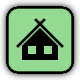
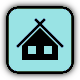
Improved map and filter iconography

diff --git a/src/components/HuntingMap/HuntingMapFilter.tsx b/src/components/HuntingMap/HuntingMapFilter.tsx
@@ -94,7 +94,11 @@ export const HuntingMapFilter = (props: HuntingMapFilterProps) => {
    * @param options Map of option types and names to render
    */
   const renderOptions = useCallback(
-    (types: Array<MarkerType>, nameMap: Map<MarkerType, string>) => (
+    (
+      types: Array<MarkerType>,
+      nameMap: Map<MarkerType, string>,
+      large: boolean,
+    ) => (
       <>
         {types
           .map(type => ({ name: nameMap.get(type) ?? '', type }))
@@ -102,6 +106,7 @@ export const HuntingMapFilter = (props: HuntingMapFilterProps) => {
           .map(({ name, type }) => (
             <HuntingMapFilterItem
               key={type}
+              large={large}
               selected={selectedTypes.includes(type)}
               type={type}
               onToggle={handleToggleType}
@@ -120,7 +125,7 @@ export const HuntingMapFilter = (props: HuntingMapFilterProps) => {
       markerTypesAnimals.length && (
         <>
           <SectionHeader>Animals</SectionHeader>
-          {renderOptions(markerTypesAnimals, animalNameMap)}
+          {renderOptions(markerTypesAnimals, animalNameMap, true)}
         </>
       ),
     [markerTypesAnimals, renderOptions],
@@ -132,7 +137,7 @@ export const HuntingMapFilter = (props: HuntingMapFilterProps) => {
       markerTypesGeneric.length && (
         <>
           <SectionHeader>General</SectionHeader>
-          {renderOptions(markerTypesGeneric, genericNameMap)}
+          {renderOptions(markerTypesGeneric, genericNameMap, false)}
         </>
       ),
     [markerTypesGeneric, renderOptions],

diff --git a/src/components/HuntingMap/HuntingMapFilterItem.tsx b/src/components/HuntingMap/HuntingMapFilterItem.tsx
@@ -5,7 +5,7 @@ import { HuntingMapFilterItemProps } from './types';
 import styles from './HuntingMapFilter.module.css';
 
 export const HuntingMapFilterItem = (props: HuntingMapFilterItemProps) => {
-  const { children, selected, type, onToggle } = props;
+  const { children, large = false, selected, type, onToggle } = props;
 
   /**
    * Handle clicking on the filter item
@@ -22,7 +22,7 @@ export const HuntingMapFilterItem = (props: HuntingMapFilterItemProps) => {
       onClick={handleClick}
     >
       <span className={styles.HuntingMapFilterMenuItemLabel}>{children}</span>
-      <Icon highlighted={selected} size={40} type={type} />
+      <Icon highlighted={selected} size={large ? 38 : 28} type={type} />
     </li>
   );
 };

diff --git a/src/components/HuntingMap/HuntingMapFilter.module.css b/src/components/HuntingMap/HuntingMapFilter.module.css
@@ -27,7 +27,7 @@
   align-items: center;
   cursor: pointer;
   display: flex;
-  height: 3.5em;
+  height: 3em;
   justify-content: space-between;
   padding: 0 1em;
   transition: background-color 100ms ease-in-out;
@@ -38,8 +38,19 @@
   background-color: var(--elevation4);
 }
 
+.HuntingMapFilterMenuItem img {
+  filter: grayscale(100%);
+  transition: filter 100ms ease-in-out, transform 100ms ease-in-out;
+}
+
+.HuntingMapFilterMenuItemEnabled img {
+  filter: grayscale(0%);
+  transform: scale(1.15);
+}
+
 .HuntingMapFilterMenuItemLabel {
-  font-size: 1.2em;
+  font-size: 1.1em;
+  font-weight: 500;
 }
 
 .HuntingMapFilterMenuItemEnabled .HuntingMapFilterMenuItemLabel {

diff --git a/src/components/HuntingMap/HuntingMap.tsx b/src/components/HuntingMap/HuntingMap.tsx
@@ -10,6 +10,7 @@ import {
   WheelEvent,
 } from 'react';
 import { LoadingOverlay } from 'components/LoadingOverlay';
+import { isHighlightedMarker } from 'lib/markers';
 import { hasListValue } from 'lib/utils';
 import { HuntingMapFilter } from './HuntingMapFilter';
 import { HuntingMapMarkerAnimal } from './HuntingMapMarkerAnimal';
@@ -98,6 +99,7 @@ export const HuntingMap = (props: HuntingMapProps) => {
     () =>
       genericMarkers.map((marker, index) => (
         <HuntingMapMarkerGenericMemo
+          highlighted={isHighlightedMarker(marker)}
           key={index}
           mapScale={options.mapScale}
           marker={marker}

diff --git a/src/components/Icon/config.ts b/src/components/Icon/config.ts
@@ -70,4 +70,12 @@ export const iconMapHighlighted: Partial<Record<IconType, string>> = {
   'animal:white-tailed deer': 'animals/highlighted/white_tailed_deer',
   'animal:wild boar': 'animals/highlighted/wild_boar',
   'animal:wild duck': 'animals/highlighted/wild_duck',
+  'cabin': 'highlighted/cabin',
+  'camp': 'highlighted/camp',
+  'echo': 'highlighted/echo',
+  'hunting stand': 'highlighted/hunting_stand',
+  'lodge': 'highlighted/lodge',
+  'photo': 'highlighted/photo',
+  'shooting range': 'highlighted/shooting_range',
+  'view': 'highlighted/view',
 };

diff --git a/src/lib/markers.ts b/src/lib/markers.ts
@@ -93,6 +93,16 @@ export const isGenericMarkerType = <TMarkerType extends MarkerType>(
 ) => genericMarkerTypes.includes(type as any);
 
 /**
+ * Determine if marker should always be represented in its highlighted form
+ *
+ * @param marker Marker to validate
+ */
+export const isHighlightedMarker = (marker: MarkerOptions) =>
+  (['cabin', 'camp', 'lodge', 'shooting range'] as Array<MarkerType>).includes(
+    marker.type,
+  );
+
+/**
  * Determine if a marker is visible at the current map scale
  *
  * @param mapScale Current map scale (zoom)

diff --git a/src/components/HuntingMap/types.ts b/src/components/HuntingMap/types.ts
@@ -24,6 +24,7 @@ export interface HuntingMapFilterProps {
 
 export interface HuntingMapFilterItemProps {
   children: string;
+  large?: boolean;
   selected: boolean;
   type: MarkerType;
   onToggle: HuntingMapFilterValueChangeHandler;
